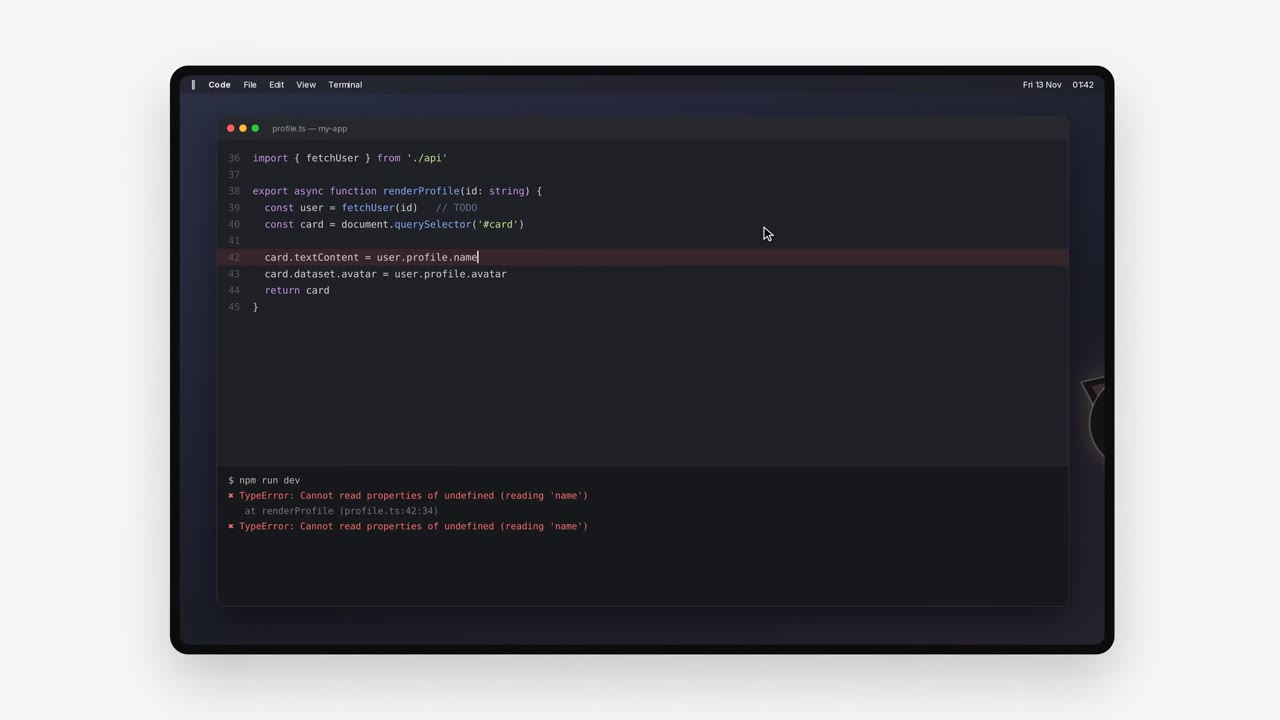
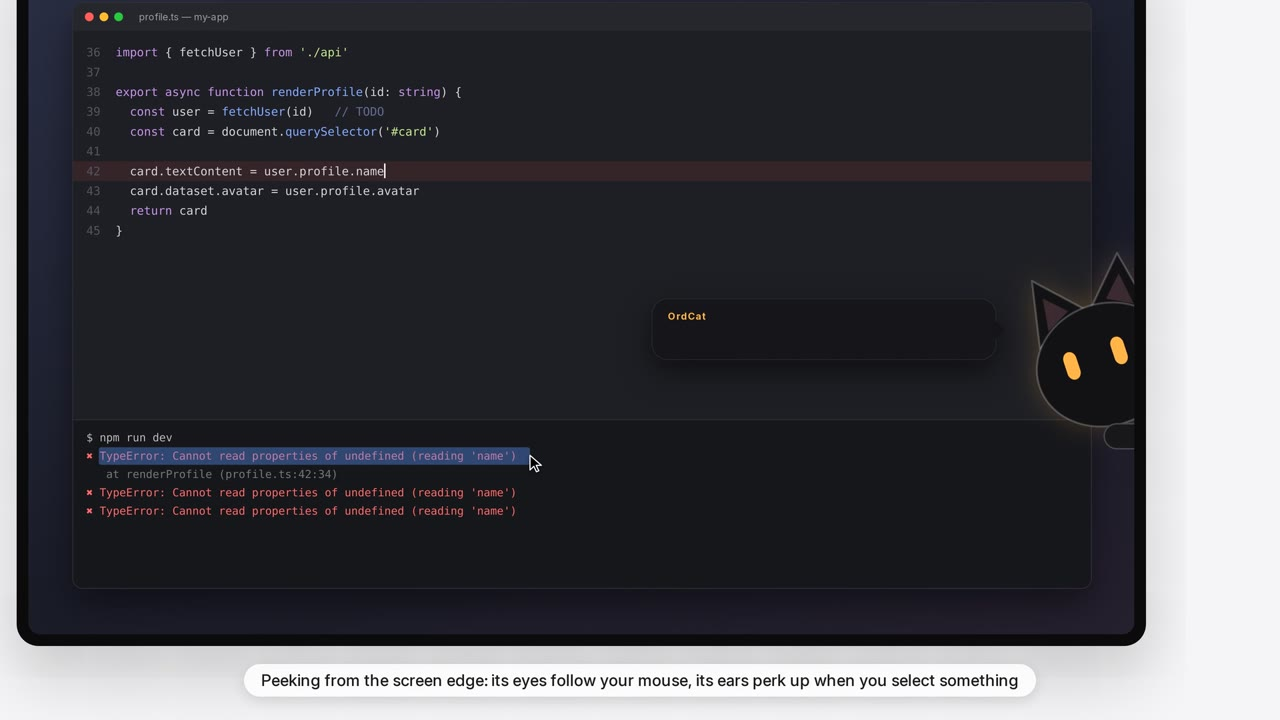
Video replaces screenshot; no title

Changed region(s): [[0.0, 0.0, 0.9062, 0.9778], [0.5, 0.4278, 0.5625, 0.4583]]

diff --git a/index.html b/index.html
@@ -111,12 +111,7 @@ footer a{color:var(--mute)}
   </div>
 </div>
 
-<img class="shot" src="desk.jpg" alt="复制报错后，小猫在屏幕边上给出提示" data-i-alt="shotalt">
-
-<section id="demo">
-  <h2 data-i="vh">50 秒，看它怎么陪你</h2>
-  <video id="demoVid" class="demo" controls playsinline preload="metadata" poster="demo-zh.jpg" src="OrdCat-demo-zh.mp4"></video>
-</section>
+<video id="demoVid" class="shot demo" controls playsinline preload="metadata" poster="demo-zh.jpg" src="OrdCat-demo-zh.mp4"></video>
 
 <section id="features">
   <h2 data-i="fh">不催你卷，只陪着你</h2>
@@ -166,7 +161,6 @@ footer a{color:var(--mute)}
 </div>
 <script>
 window.OC_I18N={
- vh:"OrdCat in 50 seconds",
  __title:"OrdCat · The AI cat that keeps you company",
  __desc:"OrdCat is an AI cat that lives at the edge of your Mac screen: low power, no burden, sees what you see, and keeps you company with the AI model you choose.",
  nav1:"Features",nav2:"Install",nav3:"FAQ",
